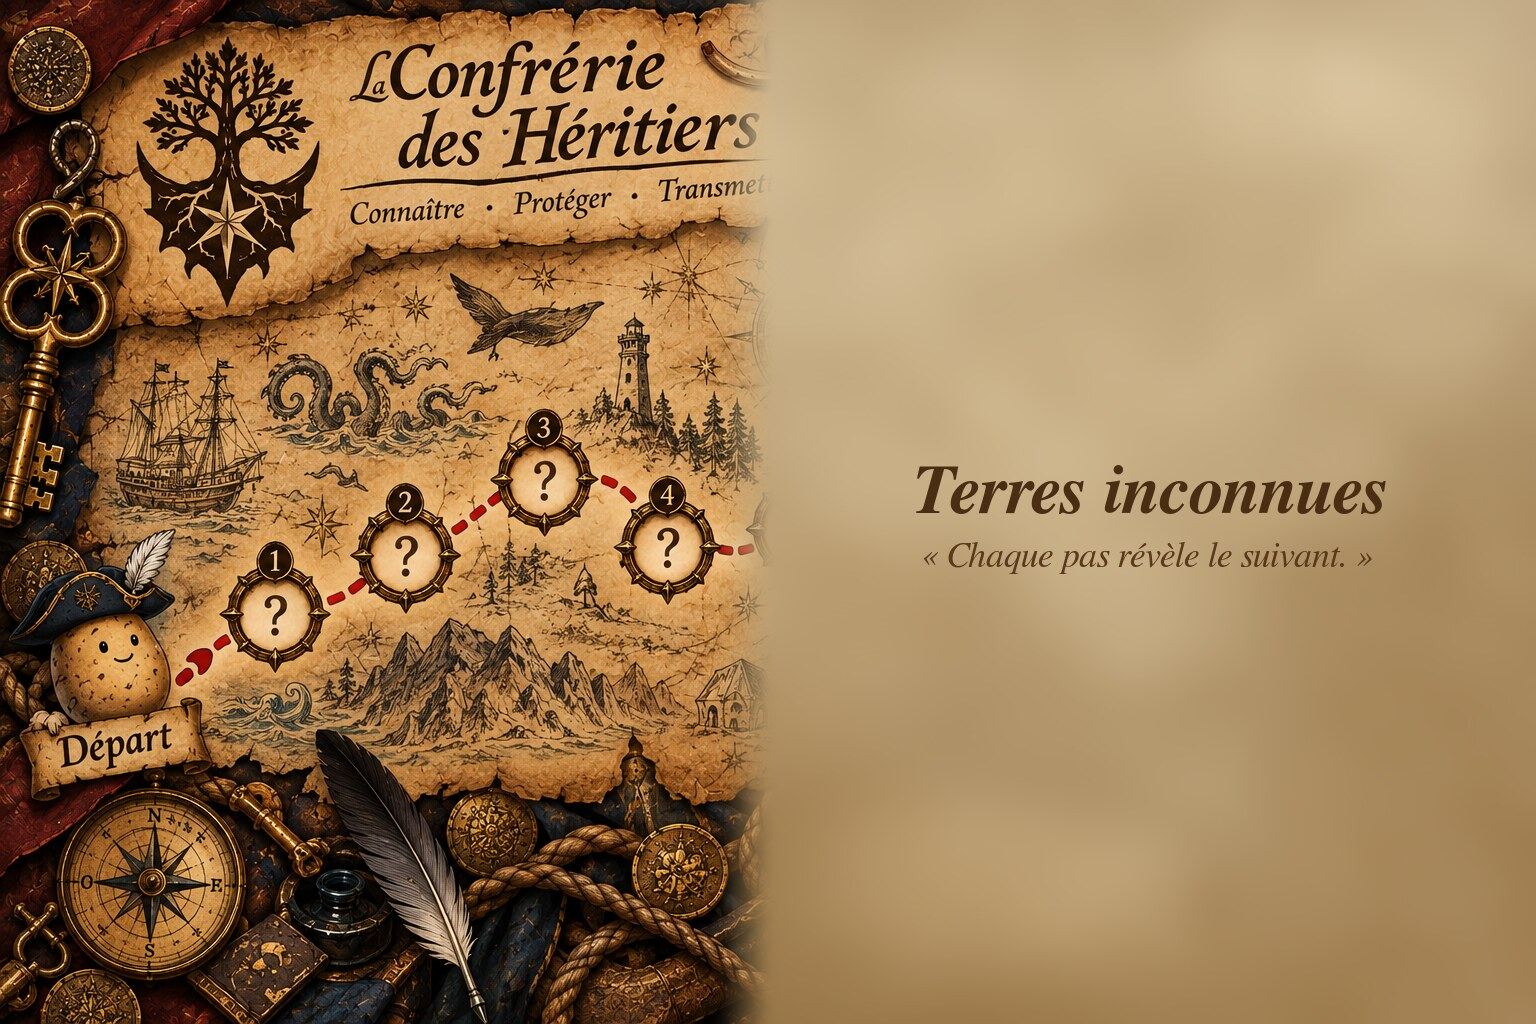
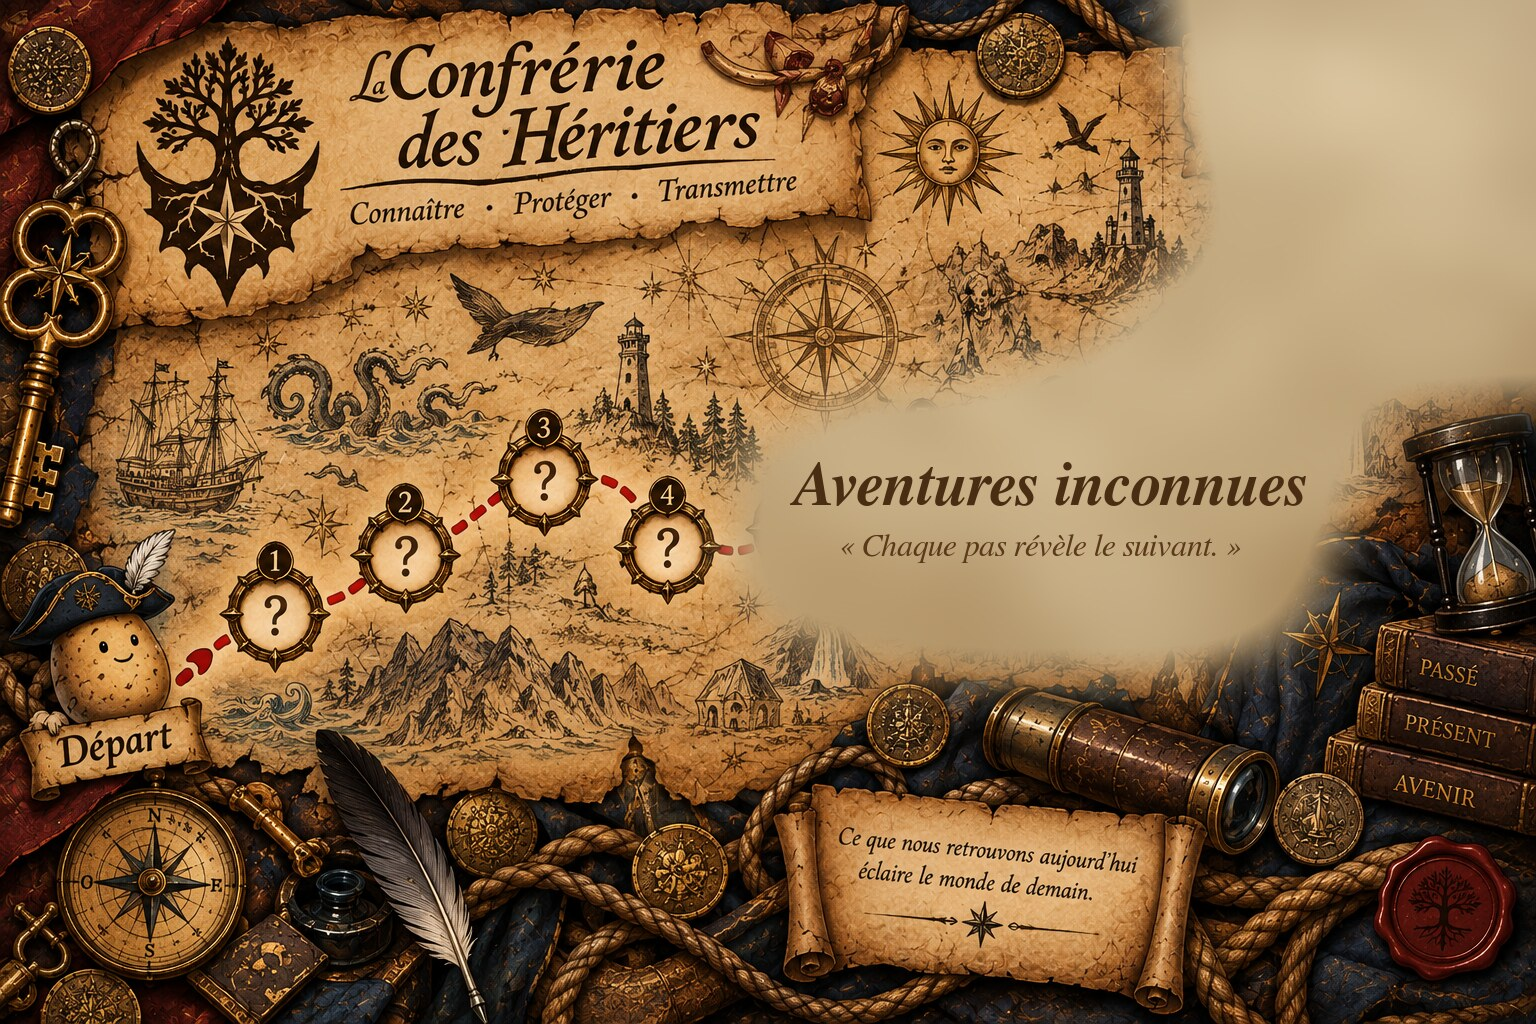
feat(quetes): « Aventures inconnues », brouillard limité au chemin
Le brouillard ne cache plus que la suite du chemin, le coffre et la
bulle « Dix pas » ; le soleil, le phare, la longue-vue, le parchemin,
le sablier, les livres et le sceau restent visibles.

Claude-Session: https://claude.ai/code/session_01LK9bQxRaFjmebgi5wGVUS1

diff --git a/frontend/app/(tabs)/quetes.tsx b/frontend/app/(tabs)/quetes.tsx
@@ -20,7 +20,7 @@ import ImageViewer from '@/src/components/ImageViewer';
 import BookViewer, { BookPage } from '@/src/components/BookViewer';
 import { storage } from '@/src/utils/storage';
 
-// Carte des quêtes : le chemin se perd dans les « Terres inconnues »
+// Carte des quêtes : le chemin se perd dans les « Aventures inconnues »
 const MAIN_QUESTS_IMAGE = require('../../quêtes/carte des quêtes - terres inconnues.jpg');
 const COMPLETED_QUEST_IMAGE = require('../../quêtes/toutes les quêtes/quête chasse aux trésors 2026 completée .png');
 const ANCIENT_MESSAGE_IMAGE = require('../../assets/images/journal/le message des anciens.png');
